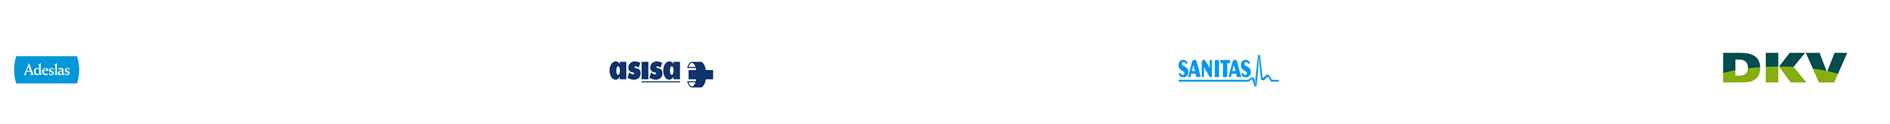
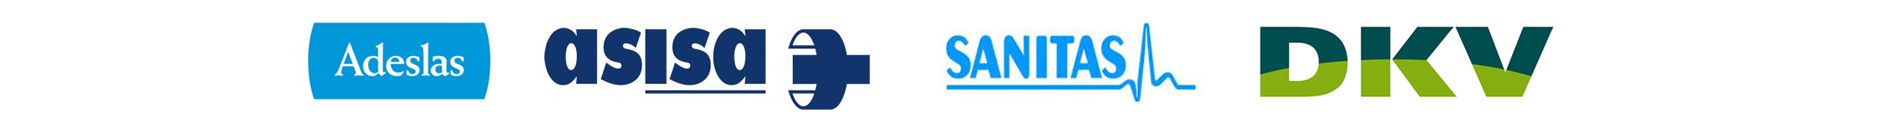
cambios arturo

diff --git a/css/main.css b/css/main.css
@@ -33,11 +33,11 @@
 
 #aceptoall
 {
-    padding: 5px 39px;
+    padding: 16px 35%;
     line-height: 26px;
-    border: 2px solid #23C787;
+    border: 2px solid #89c403;
     border-radius: 4px;
-background: #23C787;
+background: #89c403;
 color: #FFFFFF;
 font-size: 20px;
 font-weight: bold;
@@ -73,21 +73,11 @@ button
 }
 
 .edad,.dc,.ec,.np  {
-	-moz-box-shadow:inset 0px 1px 0px 0px #ffffff;
-	-webkit-box-shadow:inset 0px 1px 0px 0px #ffffff;
-	box-shadow:inset 0px 1px 0px 0px #ffffff;
-	background:-webkit-gradient(linear, left top, left bottom, color-stop(0.05, #ffffff), color-stop(1, #f6f6f6));
-	background:-moz-linear-gradient(top, #ffffff 5%, #f6f6f6 100%);
-	background:-webkit-linear-gradient(top, #ffffff 5%, #f6f6f6 100%);
-	background:-o-linear-gradient(top, #ffffff 5%, #f6f6f6 100%);
-	background:-ms-linear-gradient(top, #ffffff 5%, #f6f6f6 100%);
-	background:linear-gradient(to bottom, #ffffff 5%, #f6f6f6 100%);
-	filter:progid:DXImageTransform.Microsoft.gradient(startColorstr='#ffffff', endColorstr='#f6f6f6',GradientType=0);
-	background-color:#ffffff;
-	-moz-border-radius:6px;
-	-webkit-border-radius:6px;
+	
+	background-color: rgb(255, 255, 255);
+	
 	border-radius:6px;
-	border:1px solid #dcdcdc;
+	
 	display:inline-block;
 	cursor:pointer;
 	color:#146289;
@@ -96,17 +86,11 @@ button
 	font-weight:bold;
 	padding:6px 24px;
 	text-decoration:none;
-	text-shadow:0px 1px 0px #ffffff;
+	
 }
 .edad:hover,.dc:hover,.ec:hover,.np:hover {
-	background:-webkit-gradient(linear, left top, left bottom, color-stop(0.05, #f6f6f6), color-stop(1, #ffffff));
-	background:-moz-linear-gradient(top, #f6f6f6 5%, #ffffff 100%);
-	background:-webkit-linear-gradient(top, #f6f6f6 5%, #ffffff 100%);
-	background:-o-linear-gradient(top, #f6f6f6 5%, #ffffff 100%);
-	background:-ms-linear-gradient(top, #f6f6f6 5%, #ffffff 100%);
-	background:linear-gradient(to bottom, #f6f6f6 5%, #ffffff 100%);
-	filter:progid:DXImageTransform.Microsoft.gradient(startColorstr='#f6f6f6', endColorstr='#ffffff',GradientType=0);
-	background-color:#f6f6f6;
+	background:#bfbfbf;
+	background-color:#bfbfbf;
 }
 .edad:active,.dc:active,.ec:active,.np:active {
 	position:relative;
@@ -263,7 +247,7 @@ input[type="color"],
 	display: inline-block;
 	vertical-align: middle;
 	border: 1px solid #ddd;
-	text-transform: capitalize;
+	
 	-webkit-box-sizing: border-box;
 	-moz-box-sizing: border-box;
 	box-sizing: border-box;
@@ -471,7 +455,7 @@ address { font-style: italic; }
 	border:2px solid #ddd;
 	display: inline-block;
 	vertical-align: middle;
-	text-transform: capitalize;
+	
 	font:500 16px/56px 'Montserrat', Verdana, Helvetica, sans-serif;
 }
 .tg-btn:hover,

diff --git a/css/normalize.css b/css/normalize.css
@@ -176,7 +176,7 @@ code, kbd, pre, samp {
 button, input, optgroup, select, textarea {
 	color: inherit; /* 1 */
 	font: inherit; /* 2 */
-	margin: 0; /* 3 */
+	margin: 1px; /* 3 */
 }
 
 /**

diff --git a/index.php b/index.php
@@ -168,25 +168,81 @@ gtag('config', 'UA-130595463-1');
 			</div>
 		</header>
                     
-               <div style="width: 100%; height: 61vh; background-size: cover;background-image: url('imagenes/apple.jpg');" class="imagen">
+               <div id="fotoarribagrande" style="width: 100%;  background-size: cover;background-image: url('imagenes/apple.jpg');" class="imagen">
                   <div class="tg-homeslider tg-haslayout">
                       <div id="arriba1">
                      <img src="imagenes/arriba.png" alt="arriba" class="imagen"> 
                           
                           </div>
                       <style>
-        @media (max-width: 400px) 
+        @media (max-width: 1400px) 
+{
+ 
+    #fotoarribagrande
+    {
+        height: 65vh;
+    }
+    
+
+   
+
+    
+}
+        </style>
+                      <style>
+        @media (min-width: 1400px) 
+{
+
+    #fotoarribagrande
+    {
+        height: 70vh;
+    }
+    
+    
+
+    
+}
+        </style>
+                      <style>
+                          
+                          
+                          
+        @media (max-width: 500px) 
 {
 
     
     #tg-wrapper {
-	margin-top:-30%;
+	margin-top:-55vw;
 	
 }
     
   
     
 }
+@media (min-width: 500px) 
+{
+
+    
+    #tg-wrapper {
+	margin-top:-20%;
+	
+}
+    
+  
+    
+}
+@media (min-width: 800px) 
+{
+
+    
+    #tg-wrapper {
+	margin-top:0%;
+	
+}
+    
+  
+    
+}                          
         </style>
                       <style>
         @media (max-width: 600px) 
@@ -251,6 +307,8 @@ gtag('config', 'UA-130595463-1');
     
 
     
+
+    
     
     
 
@@ -273,6 +331,10 @@ gtag('config', 'UA-130595463-1');
 #nosotrosdiv
     {
         margin-top:27vh;
+    }
+    #fotoarribagrande
+    {
+        height: 55vh;
     }
     
 
@@ -303,6 +365,8 @@ gtag('config', 'UA-130595463-1');
     
 
     
+
+    
     
     
 
@@ -320,8 +384,8 @@ gtag('config', 'UA-130595463-1');
                         <div class="col-xs-12 col-sm-12 col-md-2 col-lg-2">
                         </div>
                         <div class="col-xs-12 col-sm-12 col-md-8 col-lg-8">
-                            <br><div><center><h3><strong>Comparamos las mejores ofertas 
- en seguros de salud</strong></h3></center>
+                            <br><div><center><h3><strong>Comparamos las mejores <j style="color: #f76201;">ofertas</j>
+ en <j style="color: #f76201;">seguros de salud</j></strong></h3></center>
             </div>
                         </div>
                          <br>
@@ -332,7 +396,7 @@ gtag('config', 'UA-130595463-1');
                </div>
                      <div class="container" id="grande">
                         <div class="row">
-                           <div class="col-xs-12 col-sm-5 col-md-5 col-lg-5"  style="margin-top:3%;" >
+                           <div class="col-xs-12 col-sm-5 col-md-5 col-lg-5"  style="margin-top:7%;" >
                              <br>
                                
                              <h4><img src="imagenes/check.png"> En solo dos pasos</h4><br>
@@ -342,7 +406,7 @@ gtag('config', 'UA-130595463-1');
                             </div>
                             
                            <div class="col-xs-12 col-sm-2 col-md-2 col-lg-2">
-                          
+                          <center><img src="imagenes/sello.png" id="selloidp" style="margin-top: 3vh;width: 85%;margin-left: -30vw;"></center>
                            </div>
                            <div class="col-xs-0 col-sm-5 col-md-5 col-lg-5" >
                                
@@ -359,7 +423,7 @@ margin-right: auto;">
                                     
                                   
                                       
-                                  <p><center><z>Edad</z><br>
+                                  <p style="margin: 0px 0 16px;"><center><z>Edad</z><br>
     <input type="radio" style="display:none;" name="edad" id="edad"  value="1">  <button class="edad" type="button">- 40</button> 
     <input type="radio" style="display:none;"  name="edad" id="edad" value="2">  <button class="edad" type="button">41 - 45</button>
     <input type="radio" style="display:none;"  name="edad" id="edad" value="3">  <button class="edad" type="button">46 - 60</button>
@@ -471,10 +535,10 @@ margin-right: auto;">
                 
                 
              <div id="abajodiv" style="z-index: -1000;width: 100%;display: block;">
-                 <div class="container" style="background-color:#f8f8f8;width: 100%;margin-top: 25vh;">
+                 <div class="container" style="background-color:#f8f8f8;width: 100%;margin-top: 35vh;">
                      <div class="row">
                           <div class="col-xs-12 col-sm-12 col-md-12 col-lg-12" style="padding-left: 0px;padding-right: 0px;">
-                 <img src="imagenes/marcas2.png" id="marcasid">
+                 <img src="imagenes/marcas2.png" id="marcasid" style="margin-top: -1.5%;">
                  <img src="imagenes/marcas.png" id="marcasidp" style="width: 100%;">
                          </div>
                      </div>
@@ -483,8 +547,8 @@ margin-right: auto;">
                      <div class="row">
                         
                         <div class="col-xs-12 col-sm-6 col-md-6 col-lg-6">
-                            <center><h3><br>NOSOTROS</h3></center><br>
-                           <center><br><br><h6 id="textonos" style="text-align: justify;">1. Línea Salud es nustro comparador de salud más sencillo.<br>2. Pensado por y para cubrir las necesidades médicas.<br>3. Contamos con las aseguradoras más importantes del mercado.<br>4. Disponemos de ofertas personalizadas.</h6></center>
+                            <center><h3><br><strong>Nosotros</strong></h3></center>
+                           <center><br><h6 id="textonos" style="text-align: justify;"><img src="imagenes/check2.png" style="width: 3%;"> Línea Salud es nuestro comparador de salud más sencillo.<br><img src="imagenes/check2.png" style="width: 3%;" >  Pensado por y para cubrir las necesidades médicas.<br><img src="imagenes/check2.png" style="width: 3%;">  Contamos con las aseguradoras más importantes del mercado.<br><img src="imagenes/check2.png" style="width: 3%;">  Disponemos de ofertas personalizadas.</h6></center>
                             
                          
                          </div>  
@@ -508,7 +572,7 @@ margin-right: auto;">
 
                               </div></center>
  
-                            <center><img src="imagenes/sello.png" id="selloidp" style="margin-top: 21vh;display:none;"></center>
+                            
                             
                          </div> 
                           
@@ -611,7 +675,7 @@ margin-right: auto;">
                  $( ".edad" ).click(function() {
             
                  $( ".edad" ).css("background", "linear-gradient(to bottom, #ffffff 5%, #f6f6f6 100%)");
-                 $(this).css("background", "linear-gradient(to bottom, #fff 5%, #9FCD28 100%)");
+                 $(this).css("background", "rgb(130, 213, 248)");
                      
                 console.log($(this).prev().val());
                      edad=$(this).prev().val();
@@ -621,7 +685,7 @@ margin-right: auto;">
                 $( ".dc" ).click(function() {
            
                 $( ".dc" ).css("background", "linear-gradient(to bottom, #ffffff 5%, #f6f6f6 100%)");
-                 $(this).css("background", "linear-gradient(to bottom, #fff 5%, #9FCD28 100%)");
+                 $(this).css("background", "rgb(130, 213, 248)");
                 console.log($(this).prev().val());
                     dc=$(this).prev().val();
                  
@@ -630,7 +694,7 @@ margin-right: auto;">
                 $( ".ec" ).click(function() {
             
                 $( ".ec" ).css("background", "linear-gradient(to bottom, #ffffff 5%, #f6f6f6 100%)");
-                 $(this).css("background", "linear-gradient(to bottom, #fff 5%, #9FCD28 100%)");
+                $(this).css("background", "rgb(130, 213, 248)");
                 console.log($(this).prev().val());
                  ec=$(this).prev().val();
                 
@@ -639,7 +703,7 @@ margin-right: auto;">
                 $( ".np" ).click(function() {
             
                  $( ".np" ).css("background", "linear-gradient(to bottom, #ffffff 5%, #f6f6f6 100%)");
-                 $(this).css("background", "linear-gradient(to bottom, #fff 5%, #9FCD28 100%)");
+                $(this).css("background", "rgb(130, 213, 248)");
                 console.log($(this).prev().val());
                     np=$(this).prev().val();
                  

diff --git a/step2.php b/step2.php
@@ -207,7 +207,7 @@ gtag('config', 'UA-130595463-1');
                                     <div id="myModal" class="modal">
                                         <div class="modal-content">
                                             <span class="close">&times;</span>
-                                            <center><br><h5><strong>NECESITAMOS TU CONSENTIMIENTO</strong></h5><p style="color:black;">Acepto los <a  href='tyc.html'> términos y condiciones</a> y <a href='pp.html'>política de privacidad</a> de este sitio web.<br>Acepto recibir ofertas y publicidad de este sitio web por email, contacto telefónico y/o SMS.<br>Acepto recibir ofertas y publicidad por email, contacto teléfonico y/o SMS por los colaboradores de este sitio web.<br><br><button class="btn btn-success" style="margin-bottom: 3px;" id="aceptoall">Acepto<br></button><br><button   class="btn btn-ligth" id="noaceptoall">No Acepto</button></p></center>
+                                            <center><br><h5><strong>NECESITAMOS TU CONSENTIMIENTO</strong></h5><p style="color:black;">Acepto los <a  href='tyc.html'> términos y condiciones</a> y <a href='pp.html'>política de privacidad</a> de este sitio web.<br>Acepto recibir ofertas y publicidad de este sitio web por email, contacto telefónico y/o SMS.<br>Acepto recibir ofertas y publicidad por email, contacto teléfonico y/o SMS por los colaboradores de este sitio web.<br><br><button class="btn btn-success" style="margin-bottom: 3px;" id="aceptoall">ACEPTO<br></button><br><button   class="btn btn-ligth" id="noaceptoall">No Acepto</button></p></center>
                                         </div>
                                      </div>
                       <center><button id="myBtn" style="display:none;" type="button" class="btn btn-danger">Quiero informarme sobre un seguro de salud</button></center>
@@ -222,8 +222,8 @@ gtag('config', 'UA-130595463-1');
                         <div class="col-xs-12 col-sm-12 col-md-2 col-lg-2">
                         </div>
                         <div class="col-xs-12 col-sm-12 col-md-8 col-lg-8">
-                            <br><div><center><h3>¡Estas a <strong> un click </strong>
- de recibir <strong>tu oferta exclusiva</strong></h3></center>
+                            <br><div><center><h3><strong>¡Estás a  un click
+ de recibir tu oferta exclusiva!</strong></h3></center>
             </div>
                         </div>
                         <div class="col-xs-12 col-sm-12 col-md-2 col-lg-2">
@@ -239,17 +239,17 @@ gtag('config', 'UA-130595463-1');
                             </div>
                             
                            <div class="col-xs-12 col-sm-5 col-md-5 col-lg-3">
-                               <br><br><br><br>
+                               <br><br>
                                
-                          <div><center><h6><strong  style="color: white;">Código Postal</strong></h6></center></div><br>
+                          <div><center><h5><strong  style="color: white;">Código Postal</strong></h5></center></div><br>
                                
                                 
                              <input type="number" id="cpid"  placeholder=""required name="cp" style="width: 100%;"><br><br>
                                
-                          <div><center><h6><strong  style="color: white;">Nombre Completo</strong></h6></center></div><br>
+                          <div><center><h5><strong  style="color: white;">Nombre y Apellidos</strong></h5></center></div><br>
                              <input type="text" id=nc placeholder="" required name="nombre" style="width: 100%;"><br><br>
                                
-                               <div><center><h6><strong  style="color: white;">Teléfono</strong></h6></center></div><br>
+                               <div><center><h5><strong  style="color: white;">Teléfono Móvil</strong></h5></center></div><br>
                                
                              <input type="tel" id=tc placeholder="" required name="telefono" style="width: 100%;"><br><br>
                                <center><button style="width: 100%;" id="compara3" class="compara"><center style="font-size: 151%;">COMPARAR</center></button> </center><br><br>
@@ -442,7 +442,7 @@ gtag('config', 'UA-130595463-1');
                     
                     else{
                         $( "#cpid" ).val("");
-                        $("#cpid").attr("placeholder", "Ponga un cp con 5 digitos");
+                        $("#cpid").attr("placeholder", "Ponga un CP con 5 dígitos");
                         v1=false;
                     }
                         
